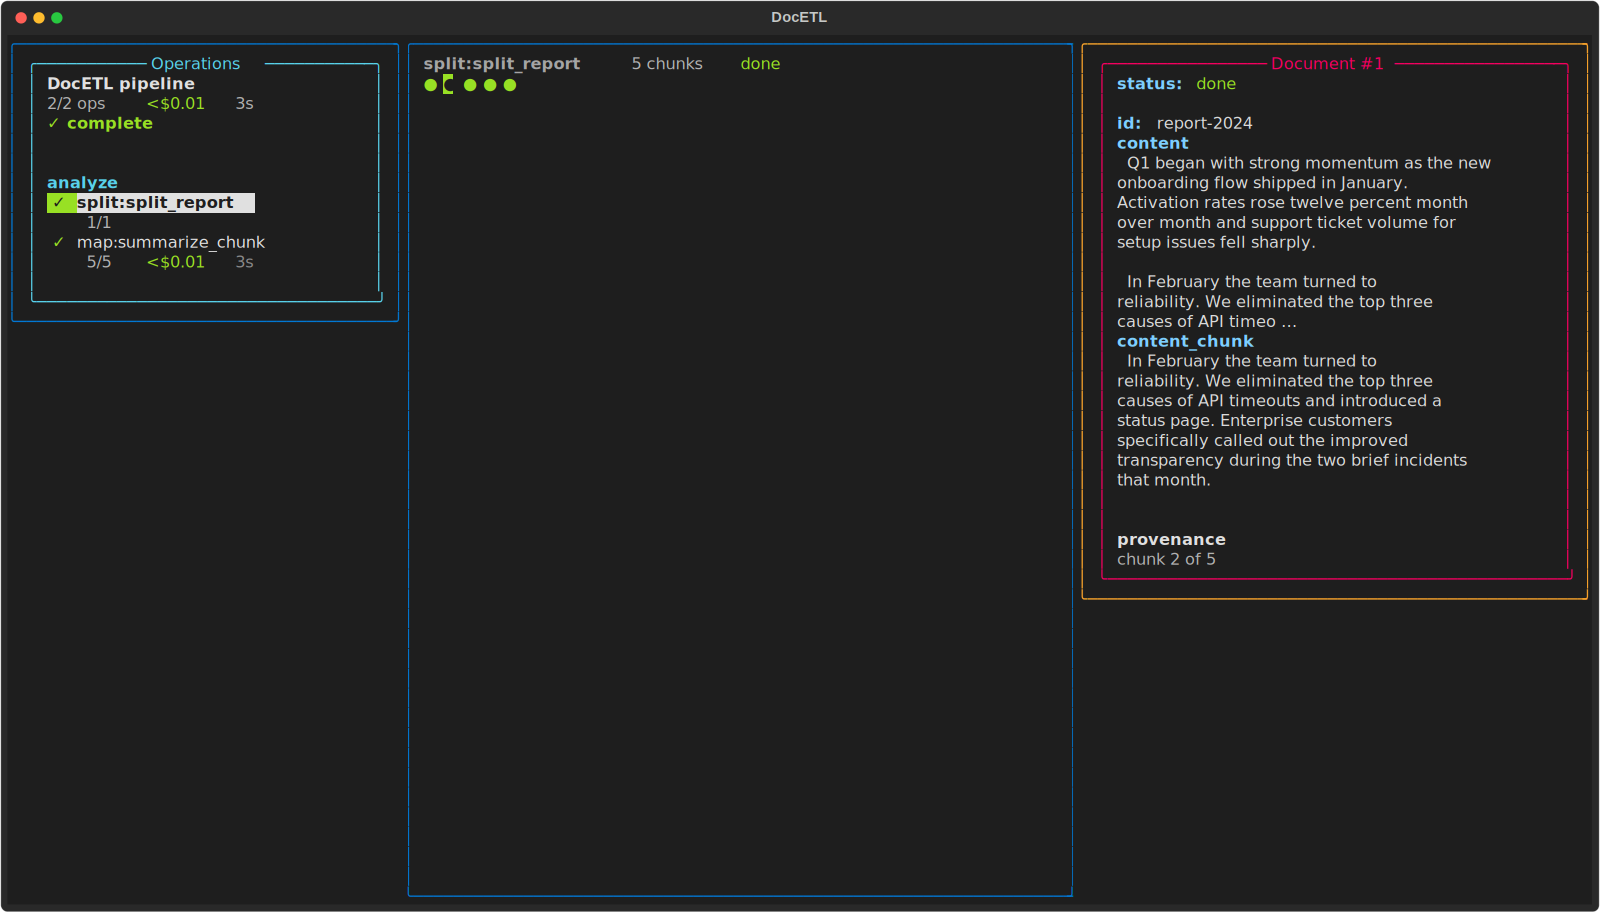
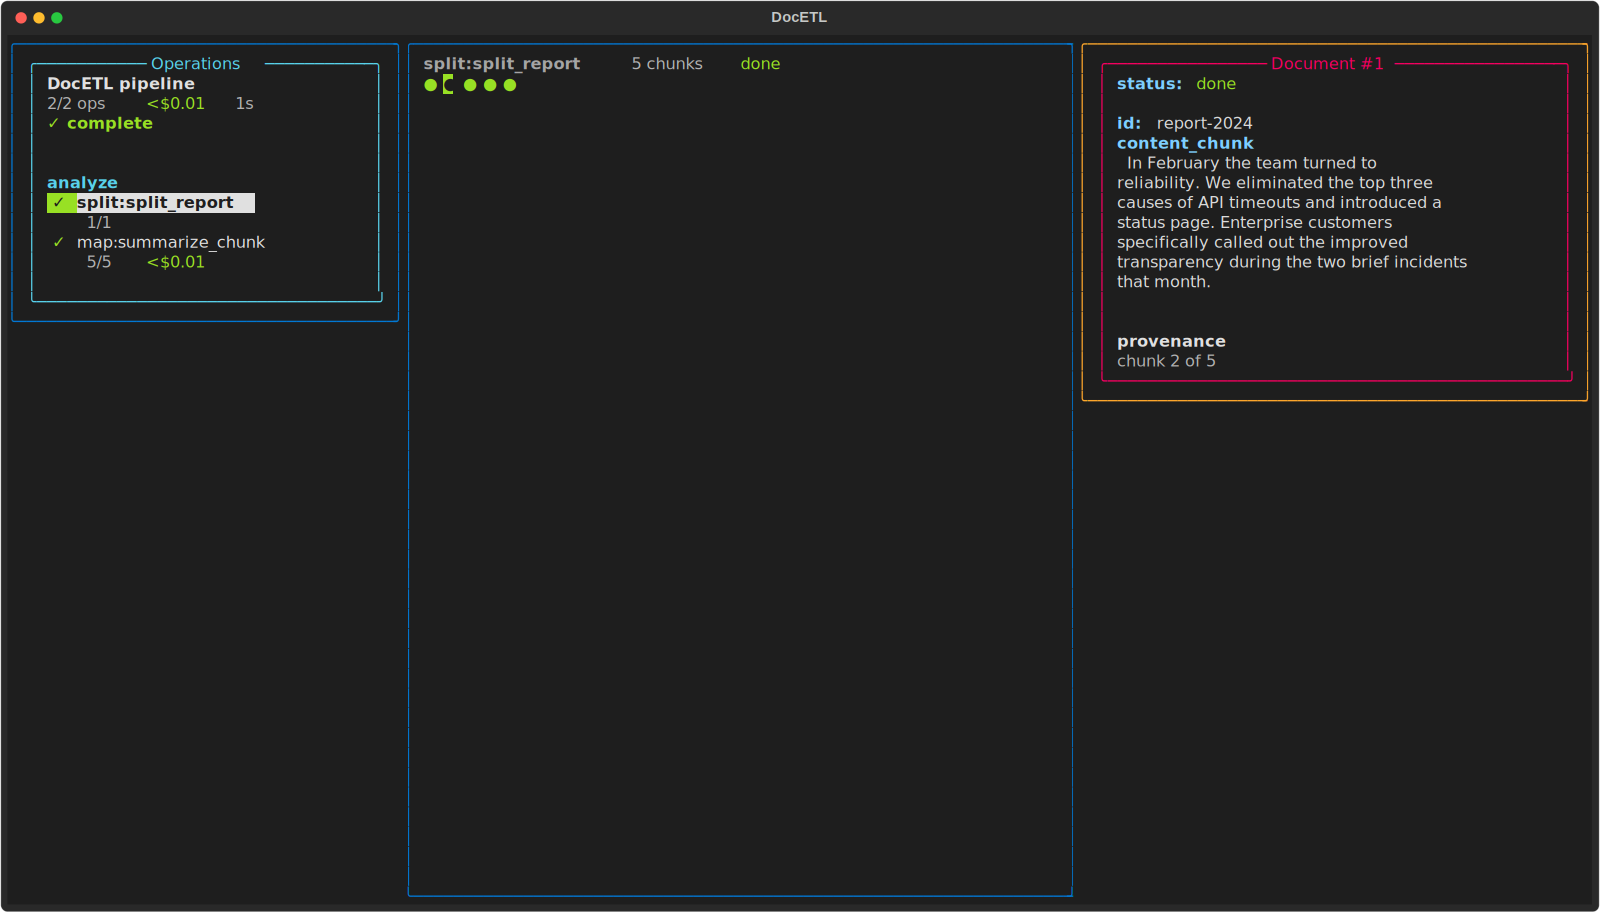
polish: hide the redundant full source field on split outputs (#487)
split copies the entire source document (the split_key, e.g. ``content``) onto
every chunk, so the detail card showed the whole document above the chunk that
supersedes it. The split profile now adds that split_key to consumed_keys —
derived from the ``<split_key>_chunk`` field — so the card shows just the id,
the chunk text, and the "chunk N of M" provenance.

https://claude.ai/code/session_01GVbRRJKoKHapgdgnawLHsX

Changed region(s): [[0.6875, 0.1533, 0.9375, 0.552], [0.6875, 0.5827, 0.7812, 0.644], [0.9688, 0.4294, 1.0, 0.46]]

diff --git a/tests/test_tui_profiles.py b/tests/test_tui_profiles.py
@@ -73,8 +73,18 @@ def test_split_provenance_reads_as_chunk_n_of_m_without_uuid():
     line = prof.provenance(op, op.outputs[1])
     assert line == "chunk 2 of 3"
     assert "be59-uuid" not in line  # the raw parent id is never shown
-    # split's internal chunk-bookkeeping keys are hidden from the field list.
-    assert prof.consumed_keys(op.outputs[1]) == {"split_x_id", "split_x_chunk_num"}
+    # split's chunk-bookkeeping keys AND the redundant full source field (the
+    # split_key, here "content", copied onto every chunk) are hidden; the
+    # "<split_key>_chunk" field that supersedes it stays.
+    doc = {
+        "content": "the entire source document repeated on every chunk",
+        "content_chunk": "just this chunk",
+        "split_x_id": "be59-uuid",
+        "split_x_chunk_num": 2,
+    }
+    consumed = prof.consumed_keys(doc)
+    assert consumed == {"content", "split_x_id", "split_x_chunk_num"}
+    assert "content_chunk" not in consumed
 
 
 def test_filter_summary_reports_dropped():

diff --git a/docetl/tui/profiles.py b/docetl/tui/profiles.py
@@ -70,7 +70,17 @@ def _split_consumed(doc: dict) -> set[str]:
     chunk_key = _split_chunk_key(doc)
     if chunk_key is None:
         return set()
-    return {chunk_key, chunk_key[: -len("_chunk_num")] + "_id"}
+    prefix = chunk_key[: -len("_chunk_num")]
+    consumed = {chunk_key, prefix + "_id"}
+    # Hide the original (full) split_key field — it's the entire source document
+    # copied onto every chunk, and the ``<split_key>_chunk`` field supersedes it.
+    for k in doc:
+        if k.endswith("_chunk") and not k.endswith("_chunk_num"):
+            split_key = k[: -len("_chunk")]
+            if split_key in doc:
+                consumed.add(split_key)
+            break
+    return consumed
 
 
 # -- filter: the dropped count the default rendering can't derive ------------